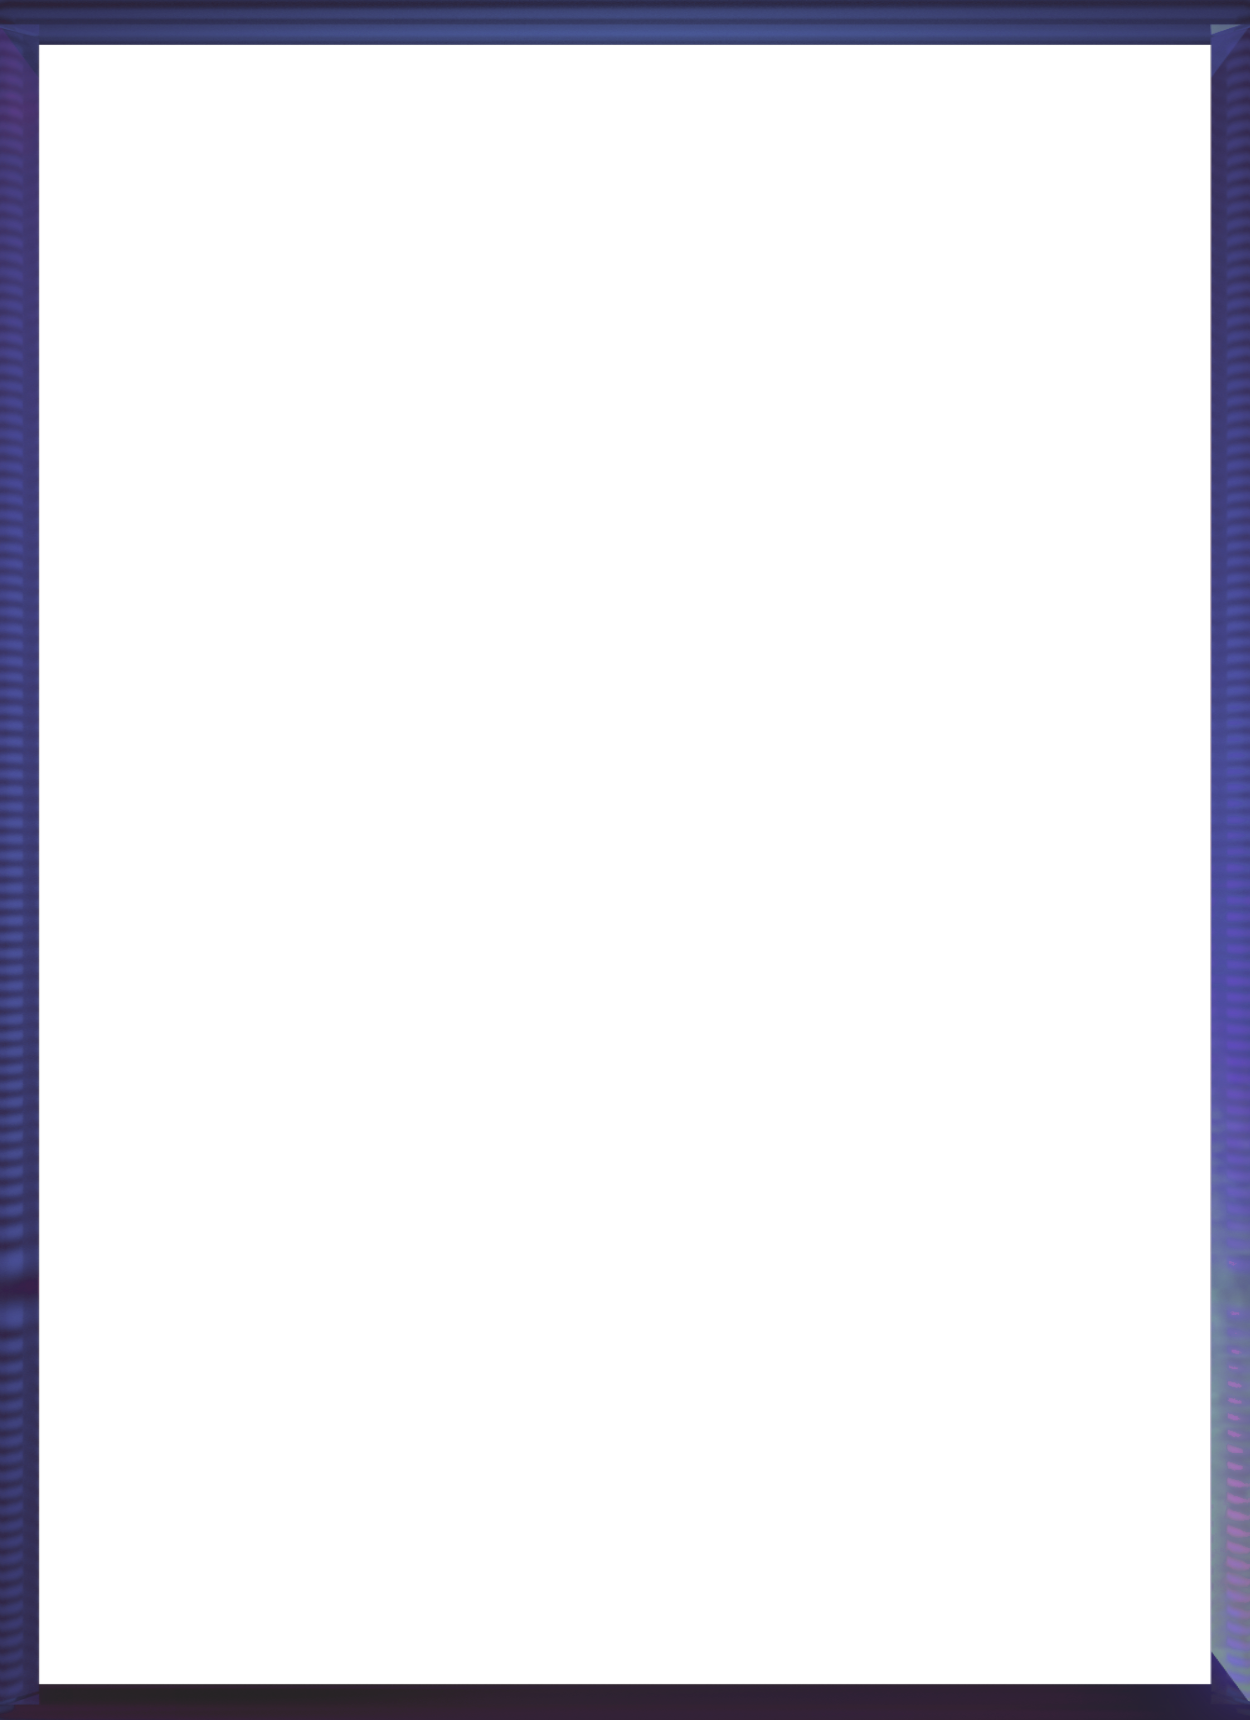
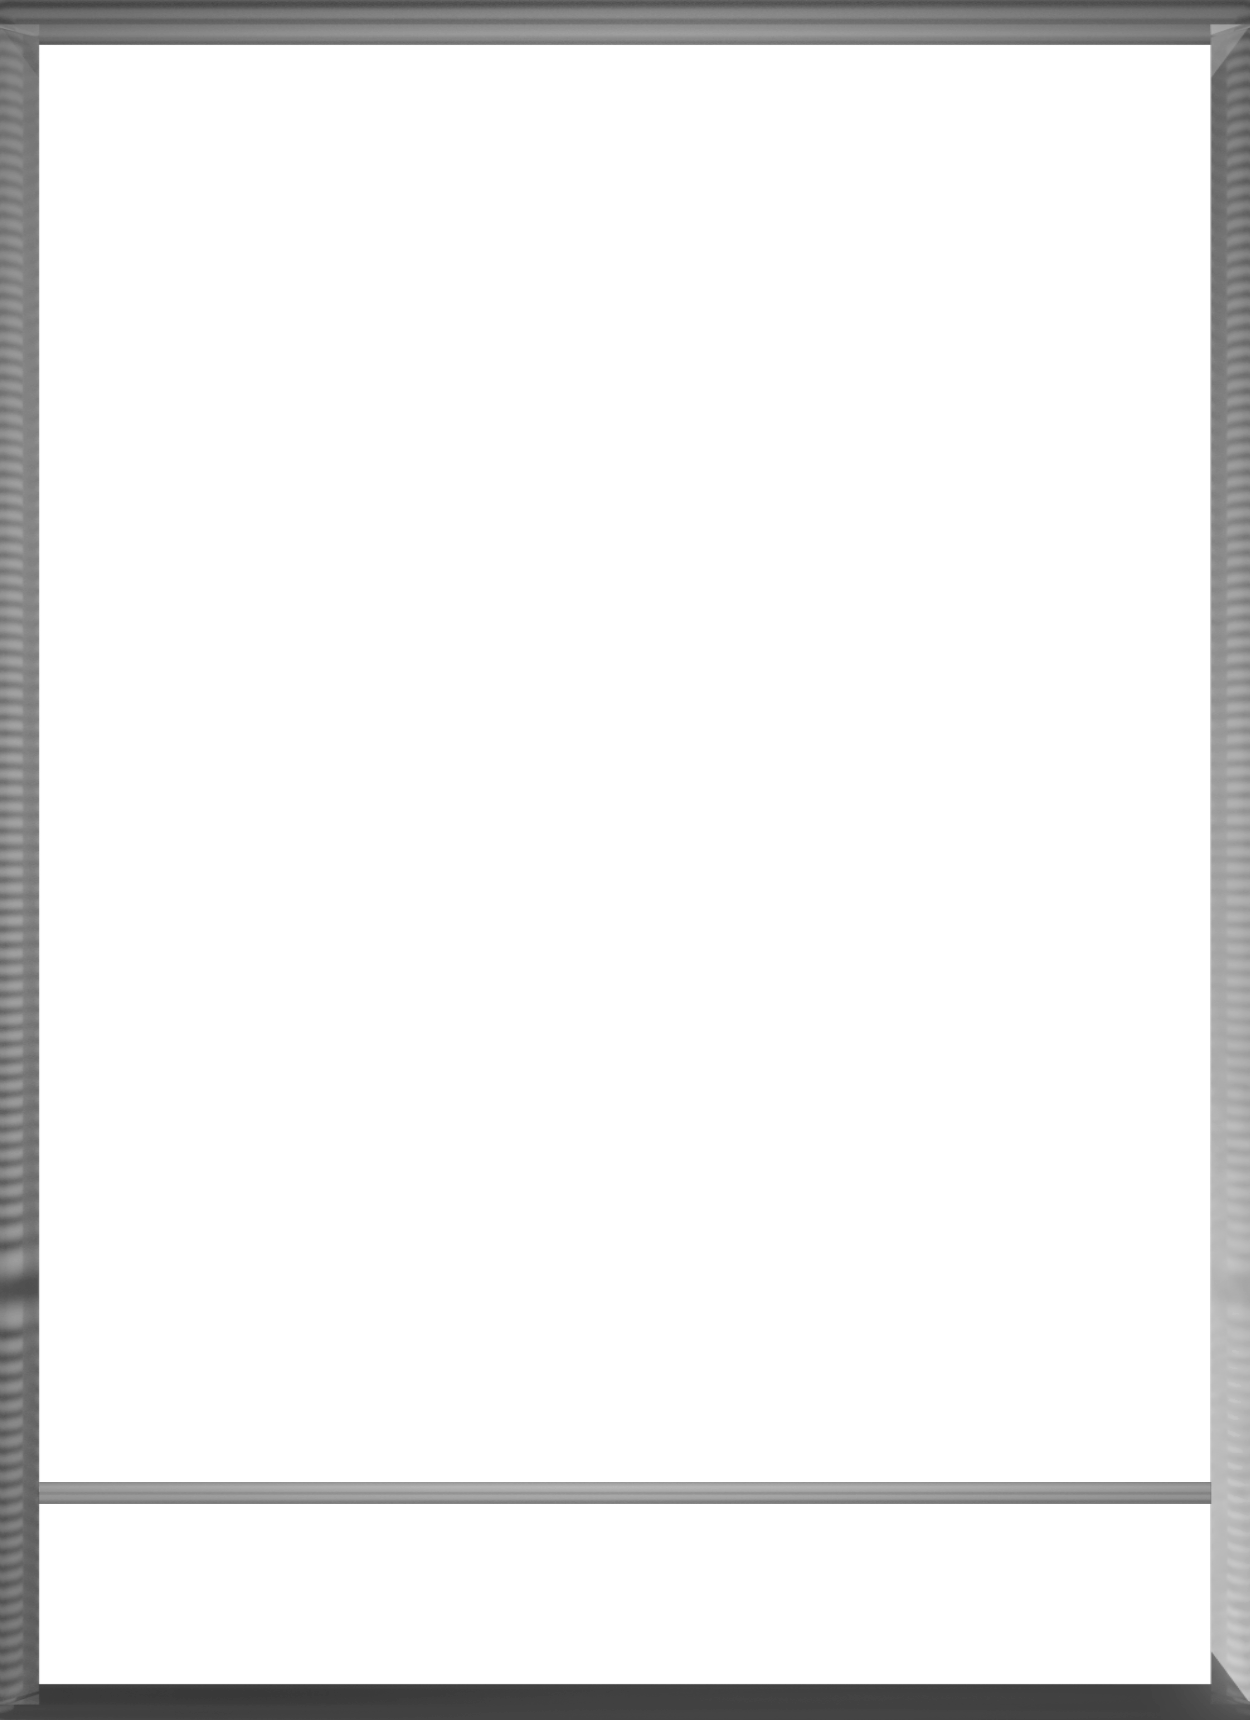
Next ball Logic & UI improvs
Developed the next ball generation and improved the UI to fit with the color generation and some borders for the player pieces

Changed region(s): [[0.0, 0.0, 1.0, 1.0]]

diff --git a/src/ts/Game/Player.ts b/src/ts/Game/Player.ts
@@ -11,15 +11,28 @@ export default class Player {
     private secondaryAimLine: Phaser.Geom.Line[] = [];
     private currentPiece: Piece = null;
     private isShooting = false;
+    private nextPiece: Piece;
     private playerPosition = {
         x: HALF_SCREEN.WIDTH, 
         y: BACKGROUND.HEIGHT - PIECE.HEIGHT + 10
+    }
+    private playerNextPosition = {
+        x: HALF_SCREEN.WIDTH - 185, 
+        y: BACKGROUND.HEIGHT - PIECE.HEIGHT + 5
     }
 
     constructor(gameManager: GameManager) {
         this.aimLine = gameManager.getAimLine();
 
-        this.currentPiece = new Piece(this.playerPosition, true, rndNumber(0, 6));
+        this.nextPiece = new Piece(this.playerNextPosition,{
+            isPlayerPiece: true,
+            pieceColor: rndNumber(0, 6),
+            isNextBall: true,
+        });
+        this.currentPiece = new Piece(this.playerPosition,{
+            isPlayerPiece: true,
+            pieceColor: rndNumber(0, 6),
+        });
     }
 
     public getCurrentPiece(): Piece {
@@ -78,7 +91,15 @@ export default class Player {
     }
 
     public generatePiece() {
-        const newPiece = new Piece(this.playerPosition, true, rndNumber(0, 6));
+        const newPiece = new Piece(this.playerPosition, {
+            isPlayerPiece: true,
+            pieceColor:  this.nextPiece.getColor()
+        })
+        this.nextPiece = new Piece(this.playerNextPosition, {
+            isPlayerPiece: true,
+            pieceColor:  rndNumber(0, 6),
+            isNextBall: true,
+        });
         this.setCurrentPiece(newPiece);
         this.isShooting = false;
     }

diff --git a/src/ts/Scenes/GameScene.ts b/src/ts/Scenes/GameScene.ts
@@ -45,6 +45,8 @@ export default class GameScene extends Phaser.Scene {
         this.load.image('aimArrow', 'assets/longarrow-black.png');
         this.load.image('buttonReset', 'assets/buttonReset.png')
         this.load.image('buttonMenu', 'assets/buttonMenu.png')
+        this.load.image('ballFrame', 'assets/ballFrame.png')
+        this.load.image('ballNextFrame', 'assets/ballNextFrame.png')
 
         this.load.spritesheet('bubbles', 'assets/bubbles.png', {
             frameWidth: PIECE.WIDTH,
@@ -111,12 +113,16 @@ export default class GameScene extends Phaser.Scene {
 
     private createFrameAndWalls() {
         this.add.image(0, 0, 'background').setOrigin(0, 0);
+        this.add.image(0, 0, 'frame').setOrigin(0, 0);
+
+        this.add.image(HALF_SCREEN.WIDTH - 110, BACKGROUND.HEIGHT - 230, 'ballFrame').setOrigin(0, 0);
+        this.add.image(HALF_SCREEN.WIDTH - 280, BACKGROUND.HEIGHT - 210, 'ballNextFrame').setOrigin(0, 0);
+
         this.add.rectangle(0, 0, BACKGROUND.WIDTH, BACKGROUND.HEIGHT, 
             parseInt(this.bgColor), 0.3).setOrigin(0,0);
         aimArrow = this.add.image(HALF_SCREEN.WIDTH,
             BACKGROUND.HEIGHT - 100, 'aimArrow').setOrigin(0, 0.5);
         aimArrow.angle = ARROW_IMAGE.INITIAL_ANGLE;
-        this.add.image(0, 0, 'frame').setOrigin(0, 0);
         this.leftWall = this.add.rectangle(0, 0, WALL.WIDTH, BACKGROUND.HEIGHT).setOrigin(0,0);
         gameScene.physics.add.existing(this.leftWall);
         this.rightWall = this.add.rectangle(BACKGROUND.WIDTH - WALL.WIDTH, 0, 

diff --git a/src/ts/Game/Piece.ts b/src/ts/Game/Piece.ts
@@ -1,4 +1,4 @@
-import { BALL_TYPES as BALL_COLORS, Position } from "../game.interfaces";
+import { BALL_TYPES as BALL_COLORS, PieceConfigs, Position } from "../game.interfaces";
 import { gameScene, invisiblePiecesGroup, piecesGroup, player } from "../Scenes/GameScene"
 import { AVERAGE_LINE_SIZE, BACKGROUND, BALL_SPEED, HALF_SCREEN, PIECE } from "../Utils/gameValues";
 import { applyPythagoreanTheorem, getBallType, makeAnimation, rndNumber } from "../Utils/utils";
@@ -11,8 +11,9 @@ export default class Piece extends Phaser.GameObjects.Sprite {
     private currentAnimation = null;
     private isPlayerPiece: boolean;
     
-    constructor({ x, y }: Position, isPlayerPiece: boolean, pieceColor: BALL_COLORS) {
+    constructor({ x, y }: Position, { isPlayerPiece, pieceColor, isNextBall }: PieceConfigs) {
         super(gameScene, x, y, 'bubbles', pieceColor)
+        if (isNextBall) this.setScale(0.8);
         this.isPlayerPiece = isPlayerPiece;
         this.color = pieceColor || getBallType(pieceColor);
 

diff --git a/src/ts/Game/Grid.ts b/src/ts/Game/Grid.ts
@@ -42,7 +42,10 @@ export default class Grid {
         const x = this.calculateXPosition(i, j);
         const y = this.calculateYPosition(i);
 
-        this.currentGrid[i].push(new Piece({x, y}, false, pieceType))
+        this.currentGrid[i].push(new Piece({x, y}, {
+            isPlayerPiece: false,
+            pieceColor: pieceType
+        }))
     }
 
     private calculateXPosition(i: number, j: number): number {
@@ -75,7 +78,7 @@ export default class Grid {
         // callback for every time a event is found
         setTimeout(() => {
             const selectedInvisiblePiece = calculateClosestInvisiblePiece(playerPiece, invisiblePiecesArr);
-            playerPiece.move({ x: selectedInvisiblePiece.x, y: selectedInvisiblePiece.y }, 50, null)
+            playerPiece.move({ x: selectedInvisiblePiece.x, y: selectedInvisiblePiece.y }, 10, null)
             callback();
         }, 50)
 

diff --git a/src/ts/game.interfaces.ts b/src/ts/game.interfaces.ts
@@ -1,5 +1,11 @@
 // export type TileType = 'W' | 'R' | 'Y' | 'G' | 'O' | 'B' | 'P';
 
+export interface PieceConfigs {
+    isPlayerPiece: boolean,
+    isNextBall?: boolean,
+    pieceColor: BALL_TYPES 
+}
+
 export interface Position {
     x: number,
     y: number

diff --git a/src/ts/Utils/gameValues.ts b/src/ts/Utils/gameValues.ts
@@ -47,7 +47,7 @@ export const PLAYER_POS = {
 }
 
 export const RAY_SPEED = 0.03;
-export const BALL_SPEED = 200;
+export const BALL_SPEED = 120;
 export const AVERAGE_LINE_SIZE = HALF_SCREEN.WIDTH;
 export const TIME_BEFORE_DELETE_PIECE = 100;
 
